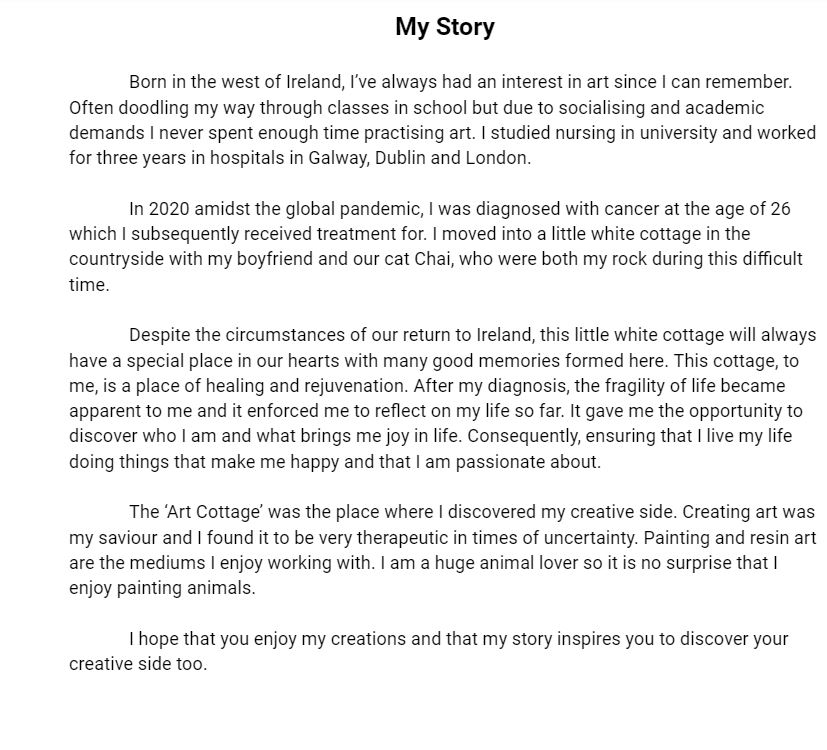
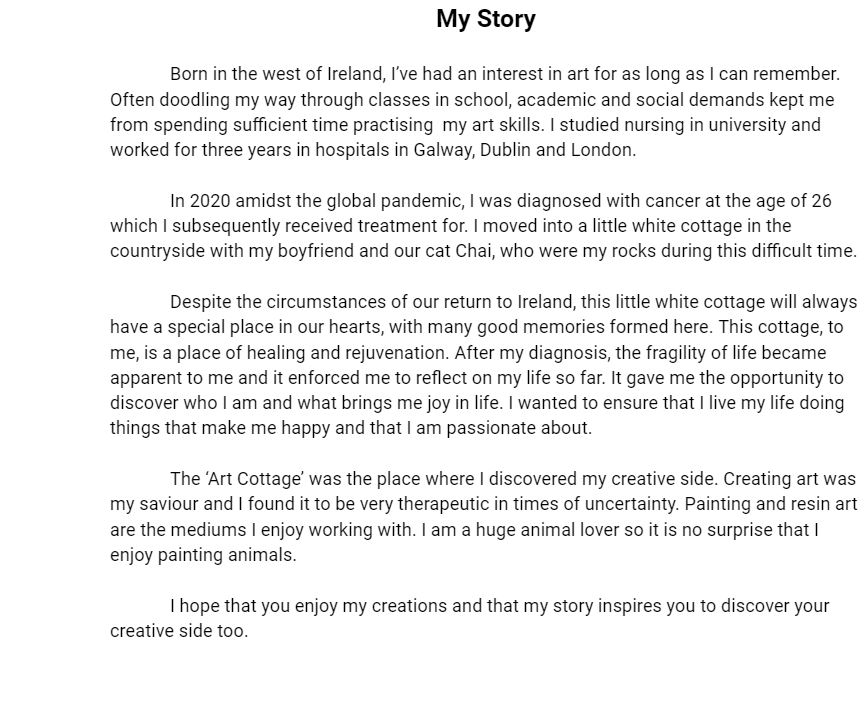
Added text to about template

diff --git a/templates/about.html b/templates/about.html
@@ -5,6 +5,33 @@
 
 {% block content %}
 <div>
+  <H1>My Story</H1>
+  <body>  Born in the west of Ireland, I’ve had an interest in art for as long as I can remember.
+  Often doodling my way through classes in school, academic and social demands kept me
+  from spending sufficient time practising  my art skills. I studied nursing in university and
+  worked for three years in hospitals in Galway, Dublin and London.
+
+    In 2020 amidst the global pandemic, I was diagnosed with cancer at the age of 26
+  which I subsequently received treatment for. I moved into a little white cottage in the
+  countryside with my boyfriend and our cat Chai, who were my rocks during this difficult time.
+
+    Despite the circumstances of our return to Ireland, this little white cottage will always
+  have a special place in our hearts, with many good memories formed here. This cottage, to
+  me, is a place of healing and rejuvenation. After my diagnosis, the fragility of life became
+  apparent to me and it enforced me to reflect on my life so far. It gave me the opportunity to
+  discover who I am and what brings me joy in life. I wanted to ensure that I live my life doing
+  things that make me happy and that I am passionate about.
+
+    The ‘Art Cottage’ was the place where I discovered my creative side. Creating art was
+  my saviour and I found it to be very therapeutic in times of uncertainty. Painting and resin art
+  are the mediums I enjoy working with. I am a huge animal lover so it is no surprise that I
+  enjoy painting animals.
+
+    I hope that you enjoy my creations and that my story inspires you to discover your
+  creative side too.
+  </body>
+</div>
+<div>
     <img src="{% static 'images/about_blurb.jpg' %}" alt="About post">
 </div>
 <div id="carouselExampleIndicators" class="carousel slide" data-ride="carousel">

diff --git a/paintingstore_project/settings.py b/paintingstore_project/settings.py
@@ -64,7 +64,7 @@ MIDDLEWARE = [
     'django.middleware.clickjacking.XFrameOptionsMiddleware',
 ]
 
-CSRF_TRUSTED_ORIGINS = ['https://theartcottage.herokuapp.com',]
+CSRF_TRUSTED_ORIGINS = ['https://theartcottage.herokuapp.com', 'https://localhost']
 
 ROOT_URLCONF = 'paintingstore_project.urls'
 
